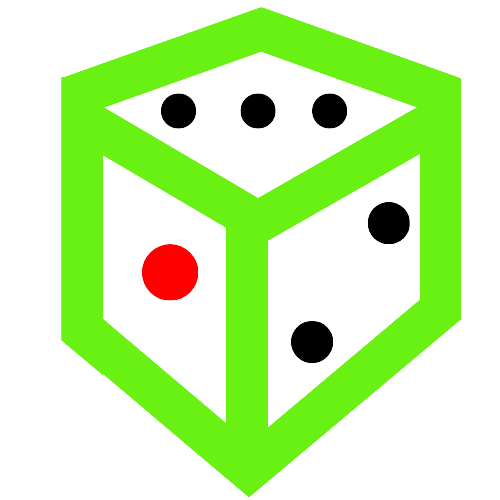
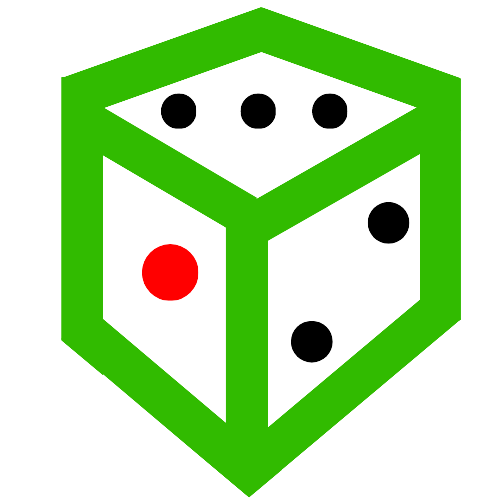
Add files via upload

diff --git a/AsaRandom/AsaRandom.html b/AsaRandom/AsaRandom.html
@@ -9,7 +9,7 @@
         <link rel="preconnect" href="https://fonts.gstatic.com" crossorigin>
         <link href="https://fonts.googleapis.com/css2?family=Bebas+Neue&family=Black+Ops+One&family=Carrois+Gothic+SC&family=DM+Serif+Display&family=Gothic+A1:wght@800&family=Josefin+Slab:wght@700&family=League+Gothic&family=Montserrat:ital@1&family=Nanum+Gothic:wght@800&family=Roboto+Slab:wght@200&family=Tilt+Neon&family=Titan+One&family=Ubuntu&display=swap" rel="stylesheet">
     </head>
-    <body style="background-color:#68f11334;">
+    <body style="background-color:#32bb0048;">
         <!--ホーム-->
         <a href="#"><img src="./AsaRandom_home.png" width=10%" id="home"></a>
         <div class="random">
@@ -26,12 +26,12 @@
                     <input type="text" placeholder="Max" id="max">
                 </li>
             </div>
-            <!--生成ボタン-->
-            <input type="button" value="generate" id="generate" onclick="randomgenerate()">
+            <!--生成ボタン
+            <input type="button" value="generate" id="generate" onclick="randomgenerate()">-->
             <!--表示ボタン-->
             <div class="generate">
                 <input type="button" value="Generate">
-                <img src="./AsaRandom_dice.png" width="30%" id="show" onclick="randomshow()">
+                <img src="./AsaRandom_dice.png" width="30%" id="show" onclick="random()">
             </div>
 
             <div>

diff --git a/AsaRandom/AsaRandom.css b/AsaRandom/AsaRandom.css
@@ -21,9 +21,9 @@ html{
     padding-top: 10%;
     height: 40%;
     font-size: 1000%;
-    border: solid 2px #68F113;
+    border: solid 2px #31BB00;
     border-radius: 10px;
-    background-color: #68f11384;
+    background-color: #32bb0079;
     text-align: center;
 }
 .range{
@@ -35,8 +35,8 @@ html{
     margin-bottom: 1%;
 }
 .range input{
-    background-color: #68f11384;
-    border: solid 2px #68F113;
+    background-color: #32bb0079;
+    border: solid 2px #31BB00;
     border-radius: 5px;
     font-size: 150%;
     font-family: 'Ubuntu';
@@ -58,8 +58,8 @@ html{
     transition: 0.3s;
 }
 #show:hover{
-    border: solid 2px #68F113;
-    background-color: #68f11332;
+    border: solid 2px #31BB00;
+    background-color: #32bb004d;
     transition: 0.3s;
     border-radius: 10%;
 }

diff --git a/AsaRandom/AsaRandom.js b/AsaRandom/AsaRandom.js
@@ -8,7 +8,7 @@ var list = [];
 
 show.addEventListener("click", randomshow);
 generate.addEventListener("click", randomgenerate);
-/*
+
 function random(){
     var min = mintext.value;
     var max = maxtext.value;
@@ -19,9 +19,9 @@ function random(){
     }else{
         randomnumber.innerText = random;
     }
-}*/
+}
 
-
+/*
 function randomgenerate(){
     min = mintext.value;
     max = maxtext.value;
@@ -37,4 +37,4 @@ function randomshow(){
     index = Math.round(index);
     max = max - 1;
     randomnumber.innerText = list[0];
-}
+}*/

diff --git a/AsaApp/AsaApp.css b/AsaApp/AsaApp.css
@@ -74,7 +74,7 @@ a{
     color: #FFDBED;
 }
 #random p{
-    color: #68F113;
+    color: #31BB00;
 }
 .start {
 	background: #8fe5ff00;
